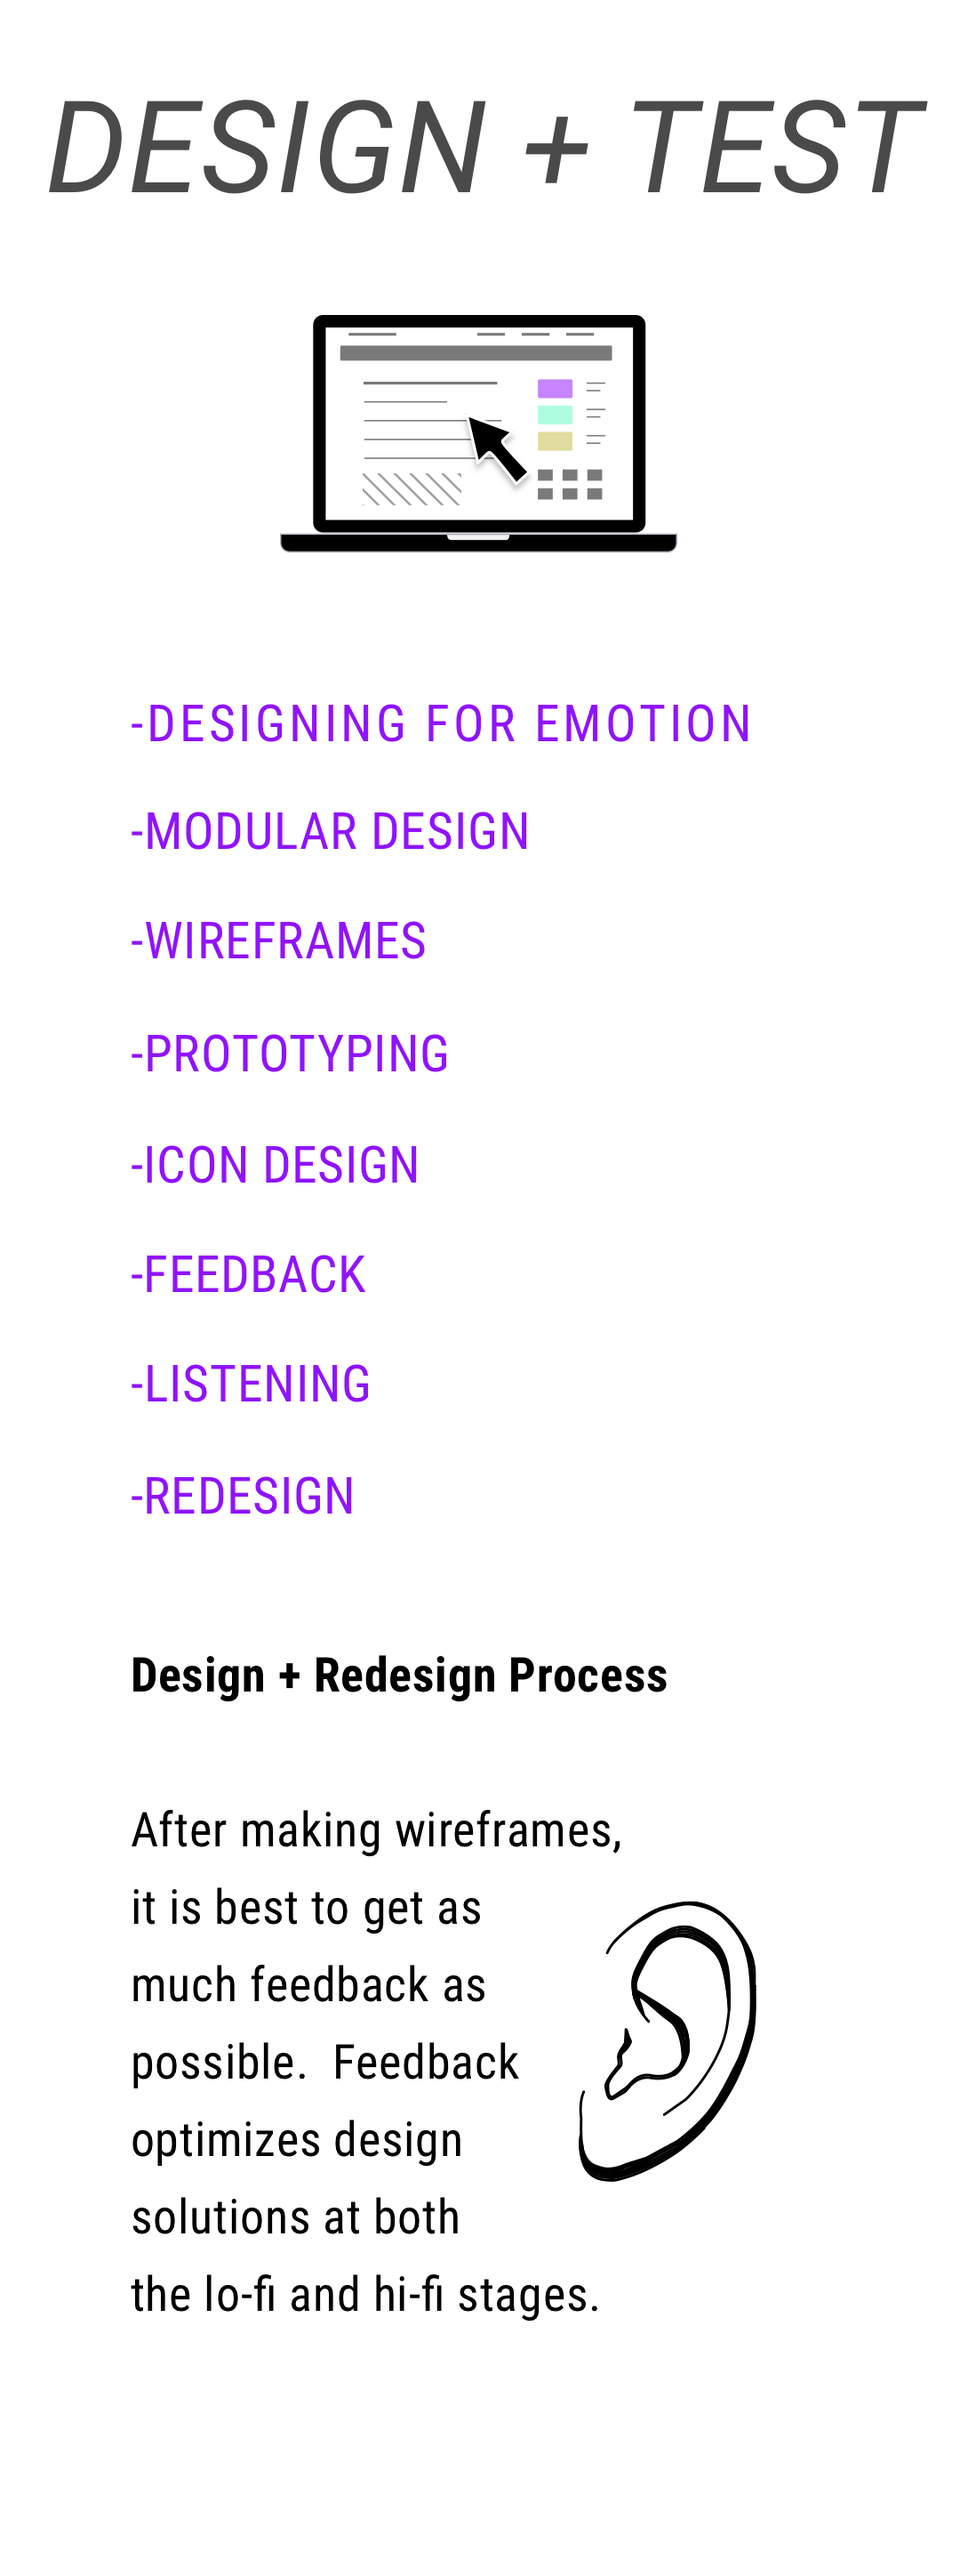
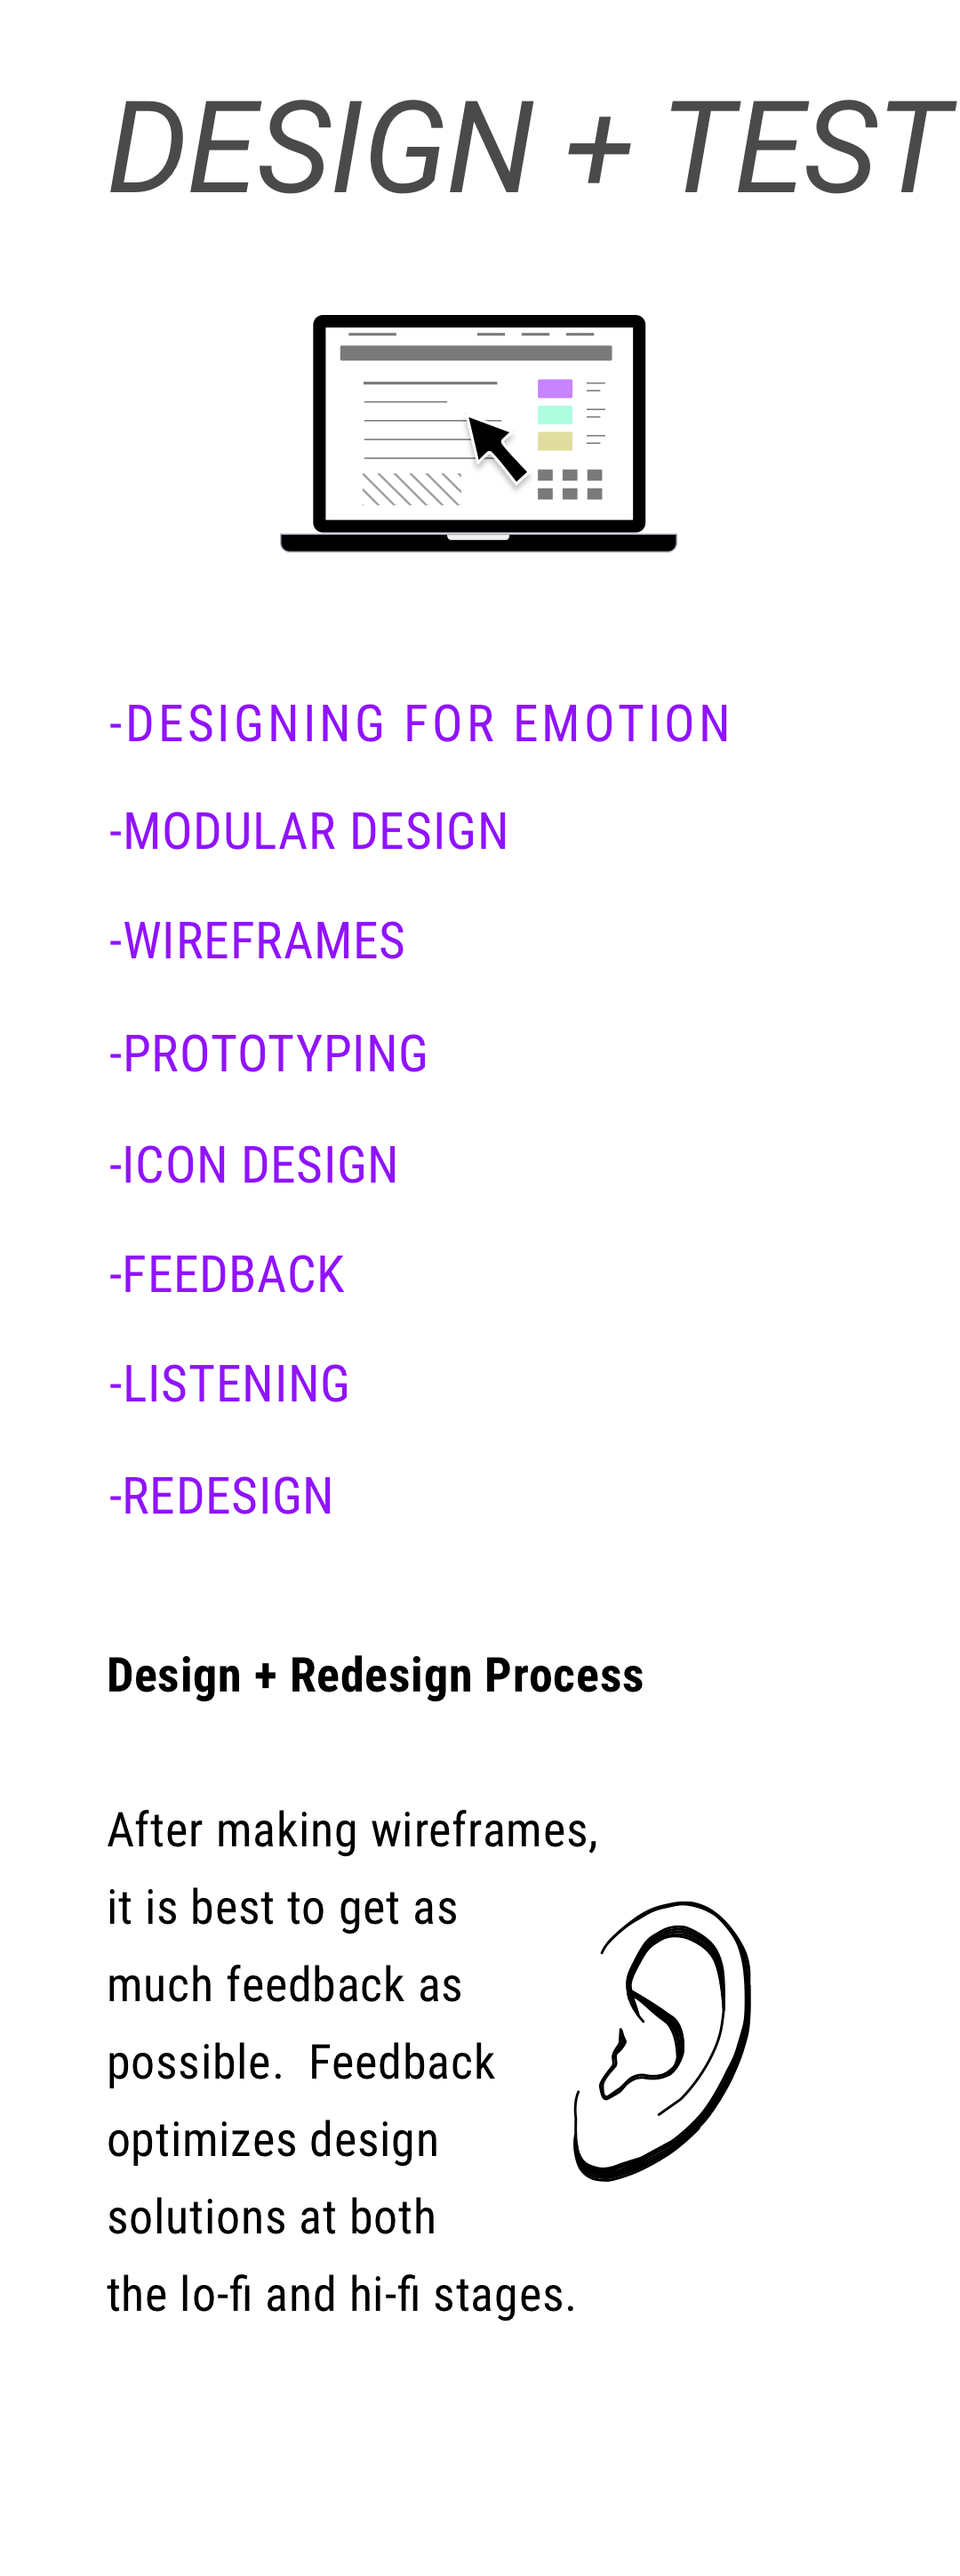
ghjkl;

diff --git a/css/style.css b/css/style.css
@@ -524,27 +524,7 @@ box-shadow: 12px 2px 37px -6px rgba(170,164,184,1);
 
 		
 
-		#syne_title h3 {
-			font-family: 'Roboto Condensed';
-			font-weight: 700;
-			font-style: italic;
-		    color: #EC5C57;
-			font-size: 2.5em;
-			margin-left: 2em;
-			padding-top: 1em;
-		}    
-
-
-		#NYU_title h3 {
-			font-family: 'Roboto';
-			font-weight: 700;
-			font-style: italic;
-			color: #4D155E;
-			font-size: 2.5em;
-			margin-left: 2em;
-			padding-top: 1em;
-		}    
-
+		
 
 /*////////////////////CONTACT///////////////////*/
 	    	#contact {
@@ -909,14 +889,23 @@ box-shadow: 12px 10px 37px -6px rgba(224,160,130,1);
 		#syneproj {
 				background-image: url("../img/nybackdrop.png");
 				background-size: 100%;
+				width: 100%;
+
+
 			}
 
-		#syneproj img {
+			.container_center {
 			width: 90%;
+			margin: 0 auto;}
+
+		#synephone img {
+		/*	width: 80%;*/
+			margin: 2% 11%;
+			
 		}	
 
     	#syneoverview {
-				background-image: whitesmoke;
+				background: white;
 				padding-bottom: 2em;
 			}
 
@@ -941,15 +930,34 @@ box-shadow: 12px 10px 37px -6px rgba(224,160,130,1);
 
 
 
-				div.storybox {
-					width: 28%;
-					padding: 1%;
-					margin: 1%;
-					float: left;
-					background-color: yellow; 
-				}
+			
 	    	
-		
+
+	    	#syne_title h3 {
+			font-family: 'Roboto Condensed';
+			font-weight: 700;
+			font-style: italic;
+		    color: #EC5C57;
+			font-size: 2.5em;
+			margin-left: 2em;
+			padding-top: 1em;
+		}    
+
+
+		#NYU_title h3 {
+			font-family: 'Roboto';
+			font-weight: 700;
+			font-style: italic;
+			color: #4D155E;
+			font-size: 2.5em;
+			margin-left: 2em;
+			padding-top: 1em;
+		}    
+
+		#NYU_title img {
+			width: 60%;
+			margin-left: 15%
+		}
 /*////////////////////////JOES EXPERIMENTAL SECTION////////////////////*/
 
 #wrapper {

diff --git a/projects.html b/projects.html
@@ -190,7 +190,7 @@
 
 
 <!-- sections of charlie section --> 
-<section class="clearfix" id="charlie_summary">
+<!-- <section class="clearfix" id="charlie_summary">
           <div class="col_s4 clearfix" id="cha_sum" style="margin-left: 5%">
             <h3>PROCESS</h3>
             
@@ -225,32 +225,33 @@
           
           </ul>
           </div>
-</section>
+</section> -->
 
 
 
 
 
-          </div> <!-- this is end of charlie row -->
+         <!--  </div> --> <!-- this is end of charlie row -->
 
         
 
 
 
-      <div class="container_center"> <!-- -container -->  
 
-          <div class="row clearfix pagestyle" id="syneproj">
-          <img src="img/syne-iphone6.png">
+          <section class="row clearfix pagestyle" id="syneproj">
+          <div class="clearfix" id="syne_title"><h3>Syne</h3></div> 
+          <img src="img/syne-iphone6.png" id="synephone">
+          </section>
       <!--     </div> -->
                <div class="row" id="syneoverview"><h3>Overview</h3>
               <img src="img/synesummary.png">
               <a href="https://invis.io/6S552TCDV" target="-blank" id="synelink"><p>Link to Prototype</p></a>
               </div>  <!-- overview row -->
-              </div>  <!-- this is end of row -->
+            <!-- this is end of row -->
 
 
          <div class="row clearfix pagestyle" style="background: white">
-              <div id="charlie_title"><h3>NYU</h3></div>
+              <div id="NYU_title"><h3>NYU</h3></div>
               <img src="img/NYU_adi_site.gif"> 
                
 
